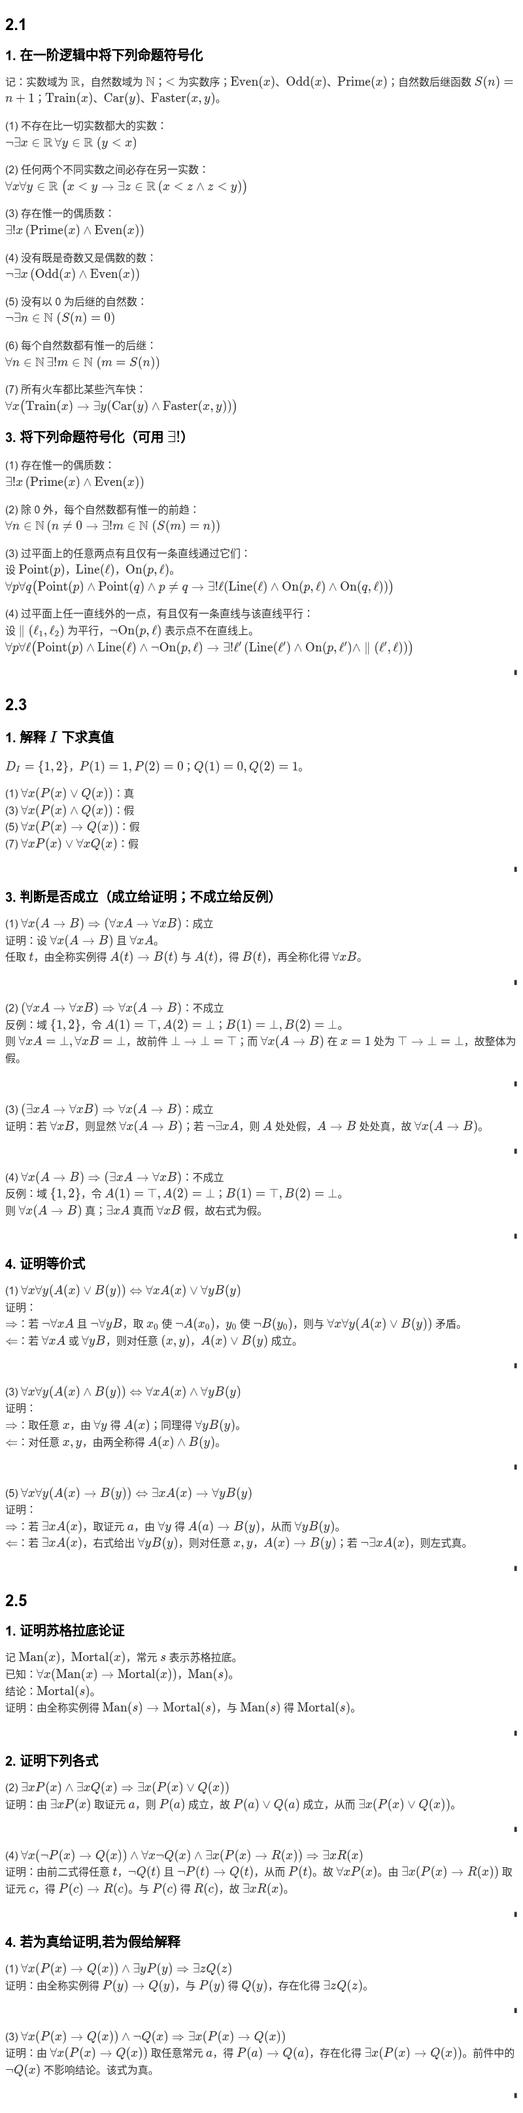
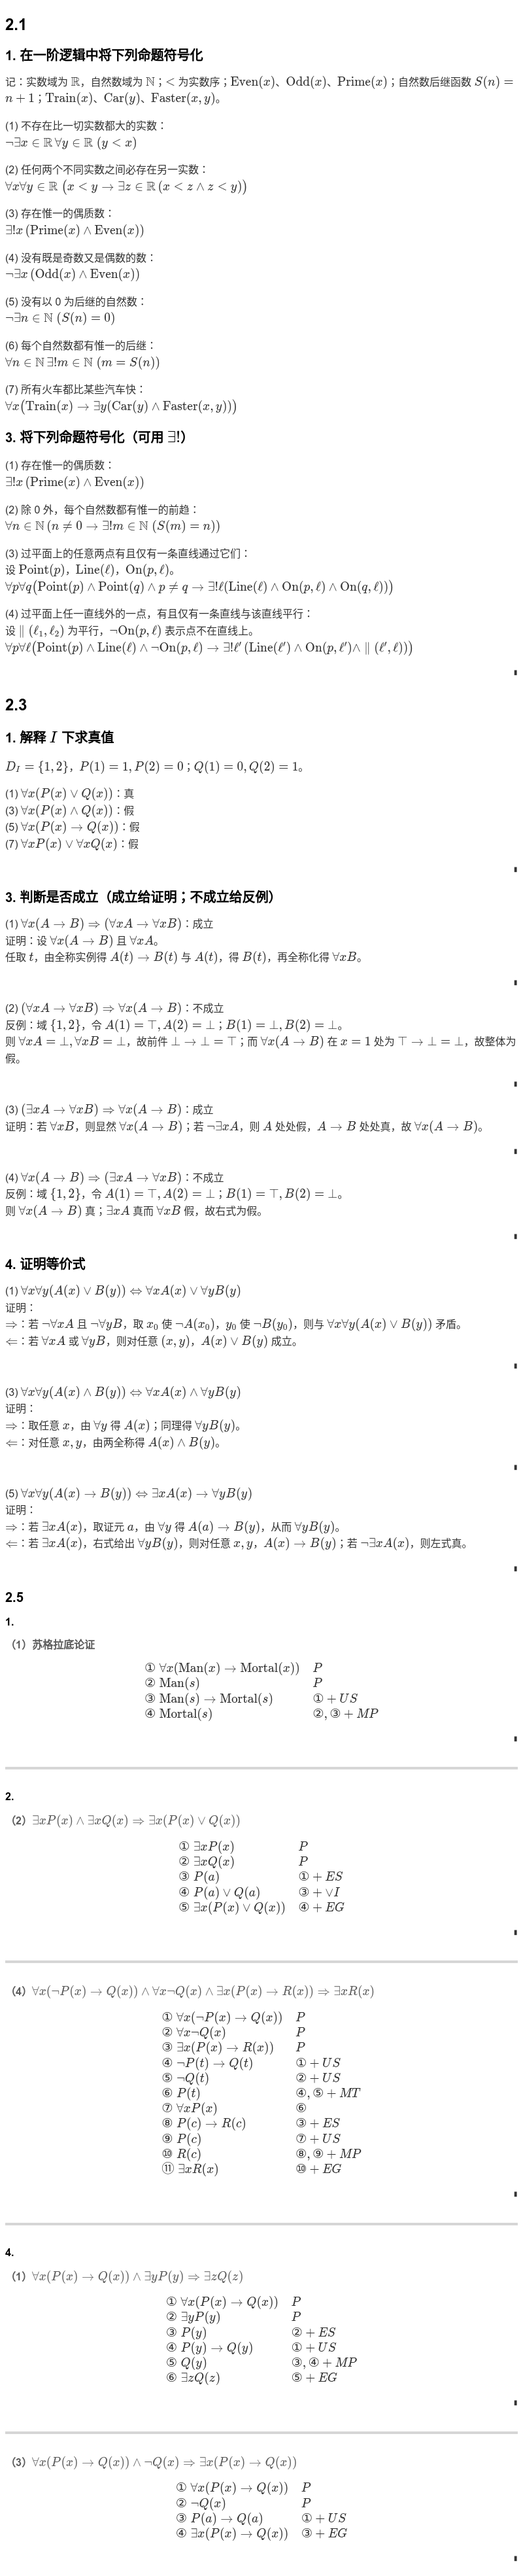
revise hw03:2.5

diff --git a/hw03/0919h2.md b/hw03/0919h2.md
@@ -97,31 +97,90 @@ $\Leftarrow$：若 $\exists xA(x)$，右式给出 $\forall yB(y)$，则对任意
 <p align="right" style="font-size: 0.8em;">∎</p>
 
 
-###  2.5
+#### 2.5
+##### 1.  
+###### （1）苏格拉底论证  
 
-#### 1. 证明苏格拉底论证
-记 $\text{Man}(x)$，$\text{Mortal}(x)$，常元 $s$ 表示苏格拉底。  
-已知：$\forall x(\text{Man}(x)\to \text{Mortal}(x))$，$\text{Man}(s)$。  
-结论：$\text{Mortal}(s)$。  
-证明：由全称实例得 $\text{Man}(s)\to \text{Mortal}(s)$，与 $\text{Man}(s)$ 得 $\text{Mortal}(s)$。  
+\[
+\begin{array}{ll}
+①\; \forall x(\text{Man}(x)\to \text{Mortal}(x)) & P \\
+②\; \text{Man}(s) & P \\
+③\; \text{Man}(s)\to \text{Mortal}(s) & ①+US \\
+④\; \text{Mortal}(s) & ②,③+MP \\
+\end{array}
+\]
+
 <p align="right" style="font-size: 0.8em;">∎</p>
 
-#### 2. 证明下列各式
+---
 
-(2) $\exists xP(x)\land \exists xQ(x)\Rightarrow \exists x(P(x)\vee Q(x))$  
-证明：由 $\exists xP(x)$ 取证元 $a$，则 $P(a)$ 成立，故 $P(a)\vee Q(a)$ 成立，从而 $\exists x(P(x)\vee Q(x))$。  
+##### 2.  
+###### （2）$\exists xP(x)\land \exists xQ(x)\Rightarrow \exists x(P(x)\vee Q(x))$  
+
+\[
+\begin{array}{ll}
+①\; \exists xP(x) & P \\
+②\; \exists xQ(x) & P \\
+③\; P(a) & ①+ES \\
+④\; P(a)\vee Q(a) & ③+\vee I \\
+⑤\; \exists x(P(x)\vee Q(x)) & ④+EG \\
+\end{array}
+\]
+
 <p align="right" style="font-size: 0.8em;">∎</p>
 
-(4) $\forall x(\neg P(x)\to Q(x))\land \forall x\neg Q(x)\land \exists x(P(x)\to R(x))\Rightarrow \exists xR(x)$  
-证明：由前二式得任意 $t$，$\neg Q(t)$ 且 $\neg P(t)\to Q(t)$，从而 $P(t)$。故 $\forall x P(x)$。由 $\exists x(P(x)\to R(x))$ 取证元 $c$，得 $P(c)\to R(c)$。与 $P(c)$ 得 $R(c)$，故 $\exists xR(x)$。  
+---
+
+###### （4）$\forall x(\neg P(x)\to Q(x))\land \forall x\neg Q(x)\land \exists x(P(x)\to R(x))\Rightarrow \exists xR(x)$  
+
+\[
+\begin{array}{ll}
+①\; \forall x(\neg P(x)\to Q(x)) & P \\
+②\; \forall x\neg Q(x) & P \\
+③\; \exists x(P(x)\to R(x)) & P \\
+④\; \neg P(t)\to Q(t) & ①+US \\
+⑤\; \neg Q(t) & ②+US \\
+⑥\; P(t) & ④,⑤+MT \\
+⑦\; \forall xP(x) & ⑥ \\
+⑧\; P(c)\to R(c) & ③+ES \\
+⑨\; P(c) & ⑦+US \\
+⑩\; R(c) & ⑧,⑨+MP \\
+⑪\; \exists xR(x) & ⑩+EG \\
+\end{array}
+\]
+
 <p align="right" style="font-size: 0.8em;">∎</p>
 
-#### 4. 若为真给证明,若为假给解释
+---
 
-(1) $\forall x(P(x)\to Q(x))\land \exists yP(y)\Rightarrow \exists zQ(z)$  
-证明：由全称实例得 $P(y)\to Q(y)$，与 $P(y)$ 得 $Q(y)$，存在化得 $\exists zQ(z)$。  
+##### 4.  
+###### （1）$\forall x(P(x)\to Q(x))\land \exists yP(y)\Rightarrow \exists zQ(z)$  
+
+\[
+\begin{array}{ll}
+①\; \forall x(P(x)\to Q(x)) & P \\
+②\; \exists yP(y) & P \\
+③\; P(y) & ②+ES \\
+④\; P(y)\to Q(y) & ①+US \\
+⑤\; Q(y) & ③,④+MP \\
+⑥\; \exists zQ(z) & ⑤+EG \\
+\end{array}
+\]
+
 <p align="right" style="font-size: 0.8em;">∎</p>
 
-(3) $\forall x(P(x)\to Q(x))\land \neg Q(x)\Rightarrow \exists x(P(x)\to Q(x))$  
-证明：由 $\forall x(P(x)\to Q(x))$ 取任意常元 $a$，得 $P(a)\to Q(a)$，存在化得 $\exists x(P(x)\to Q(x))$。前件中的 $\neg Q(x)$ 不影响结论。该式为真。  
+---
+
+###### （3）$\forall x(P(x)\to Q(x))\land \neg Q(x)\Rightarrow \exists x(P(x)\to Q(x))$  
+
+\[
+\begin{array}{ll}
+①\; \forall x(P(x)\to Q(x)) & P \\
+②\; \neg Q(x) & P \\
+③\; P(a)\to Q(a) & ①+US \\
+④\; \exists x(P(x)\to Q(x)) & ③+EG \\
+\end{array}
+\]
+
 <p align="right" style="font-size: 0.8em;">∎</p>
+
